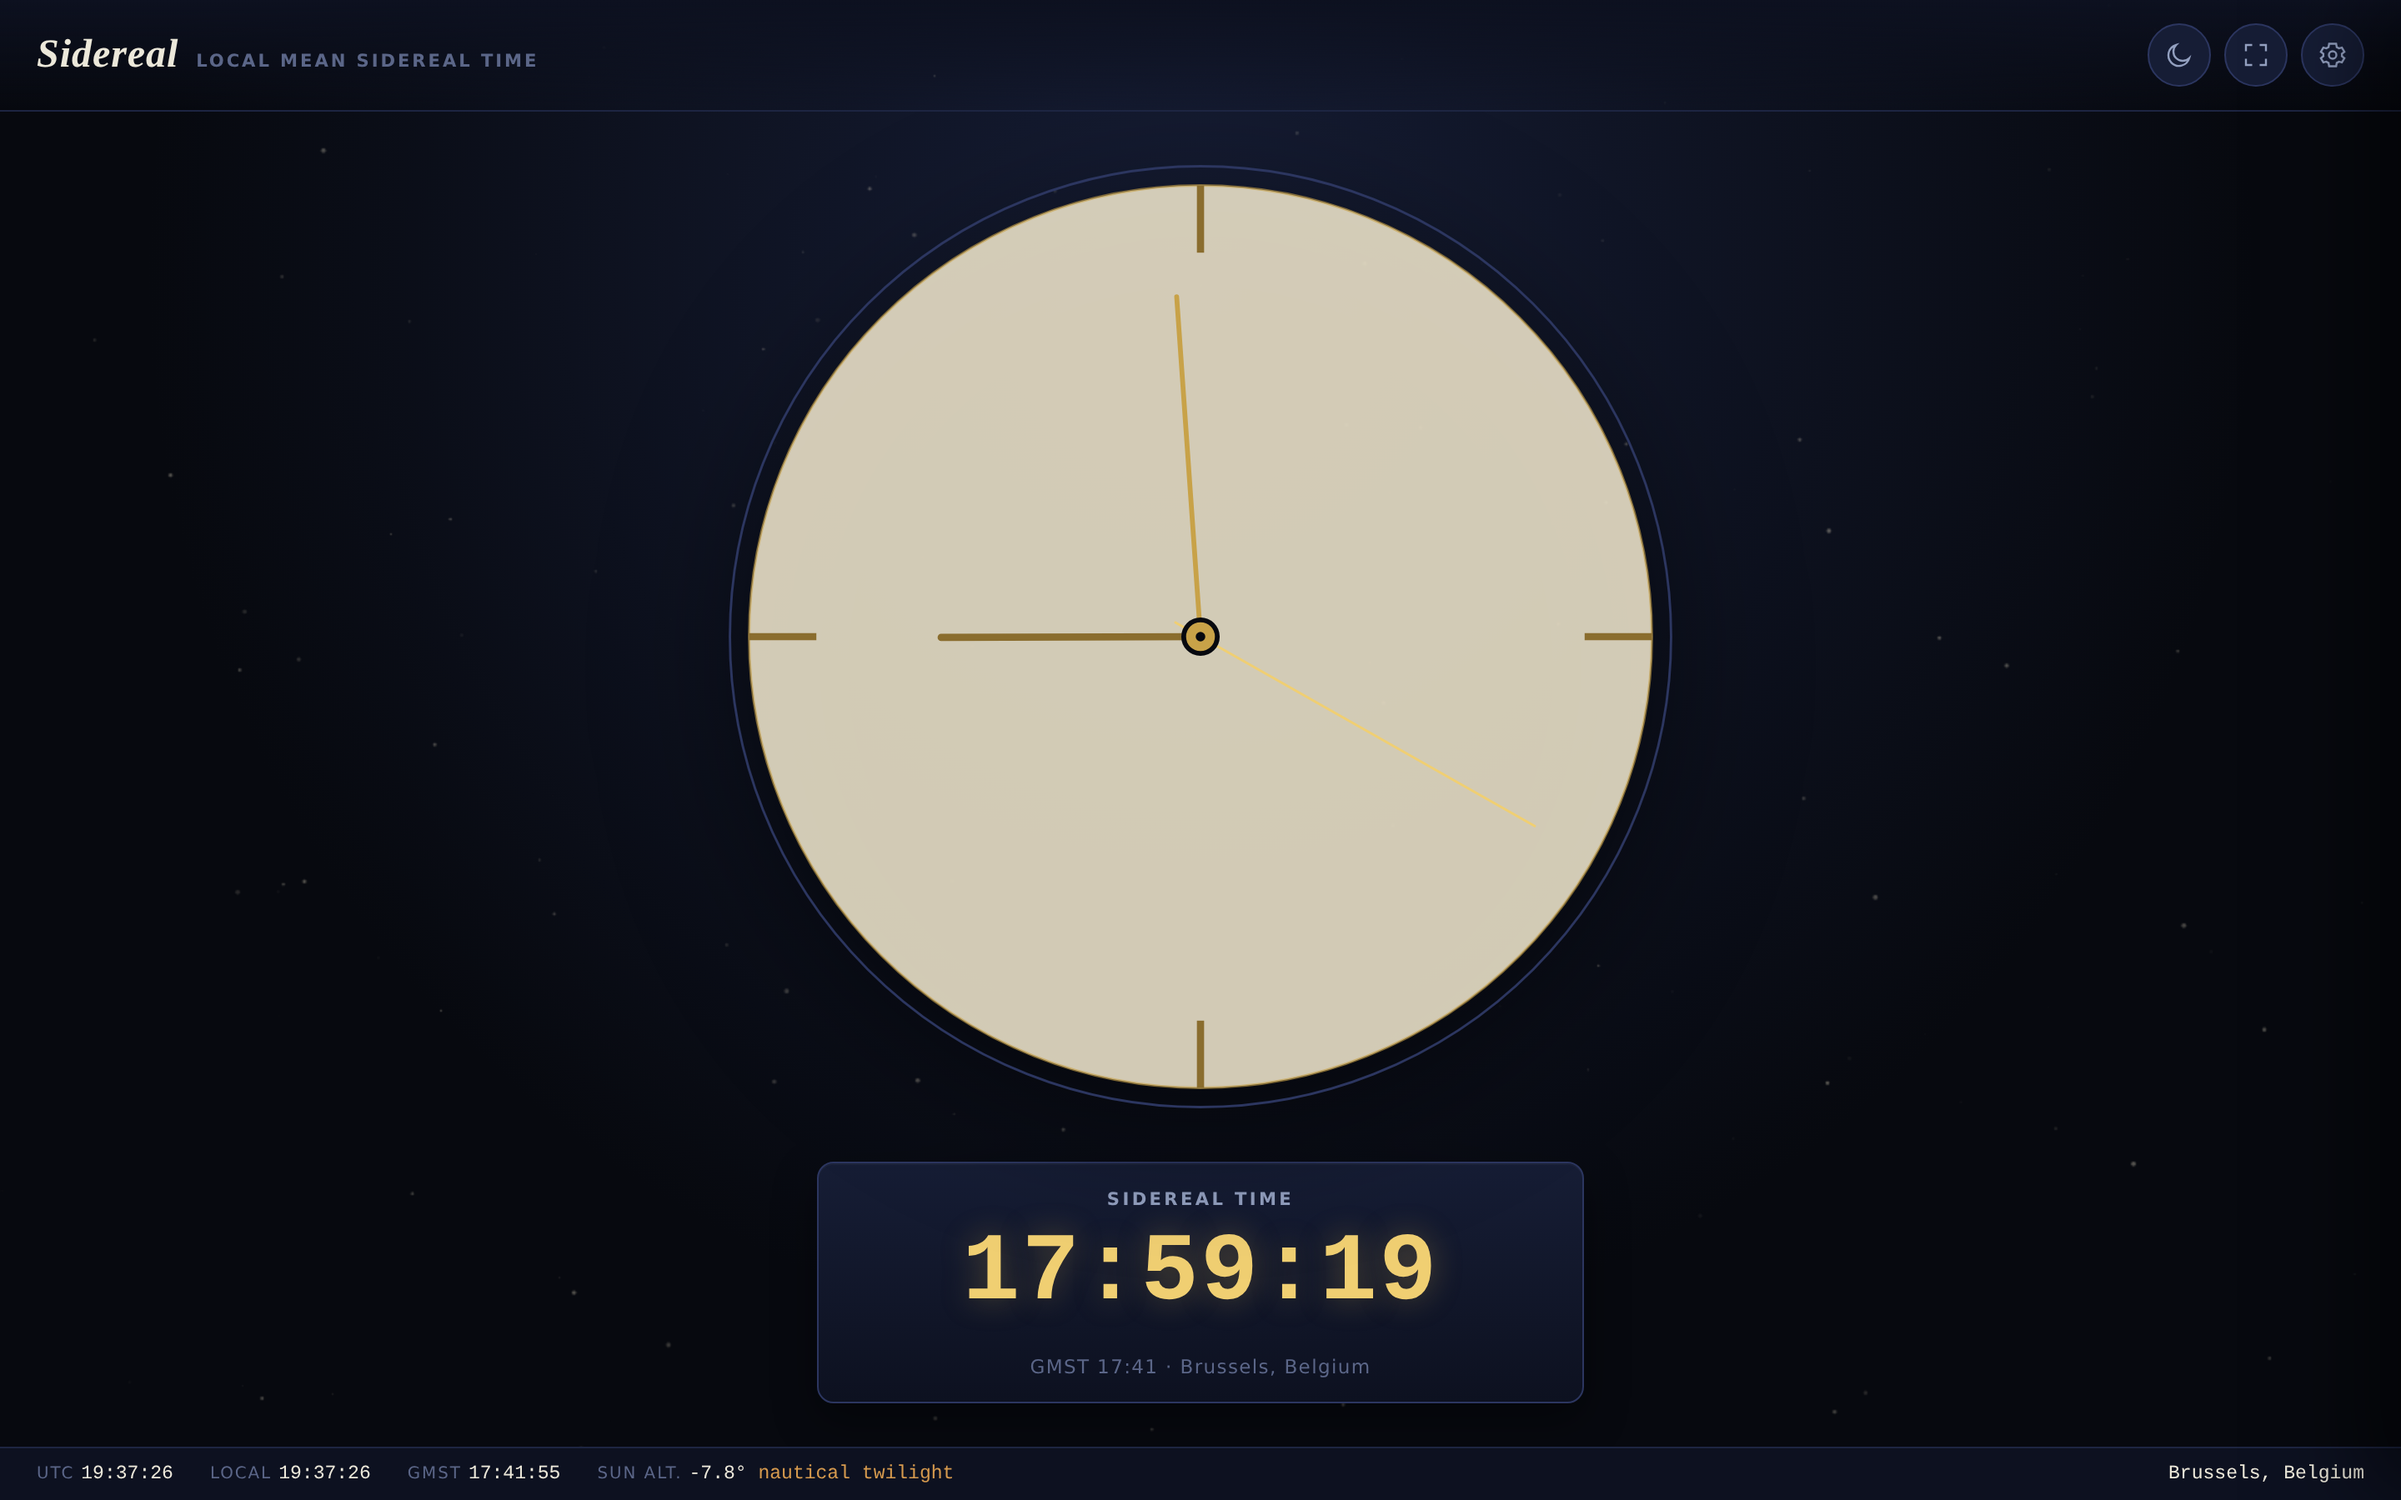
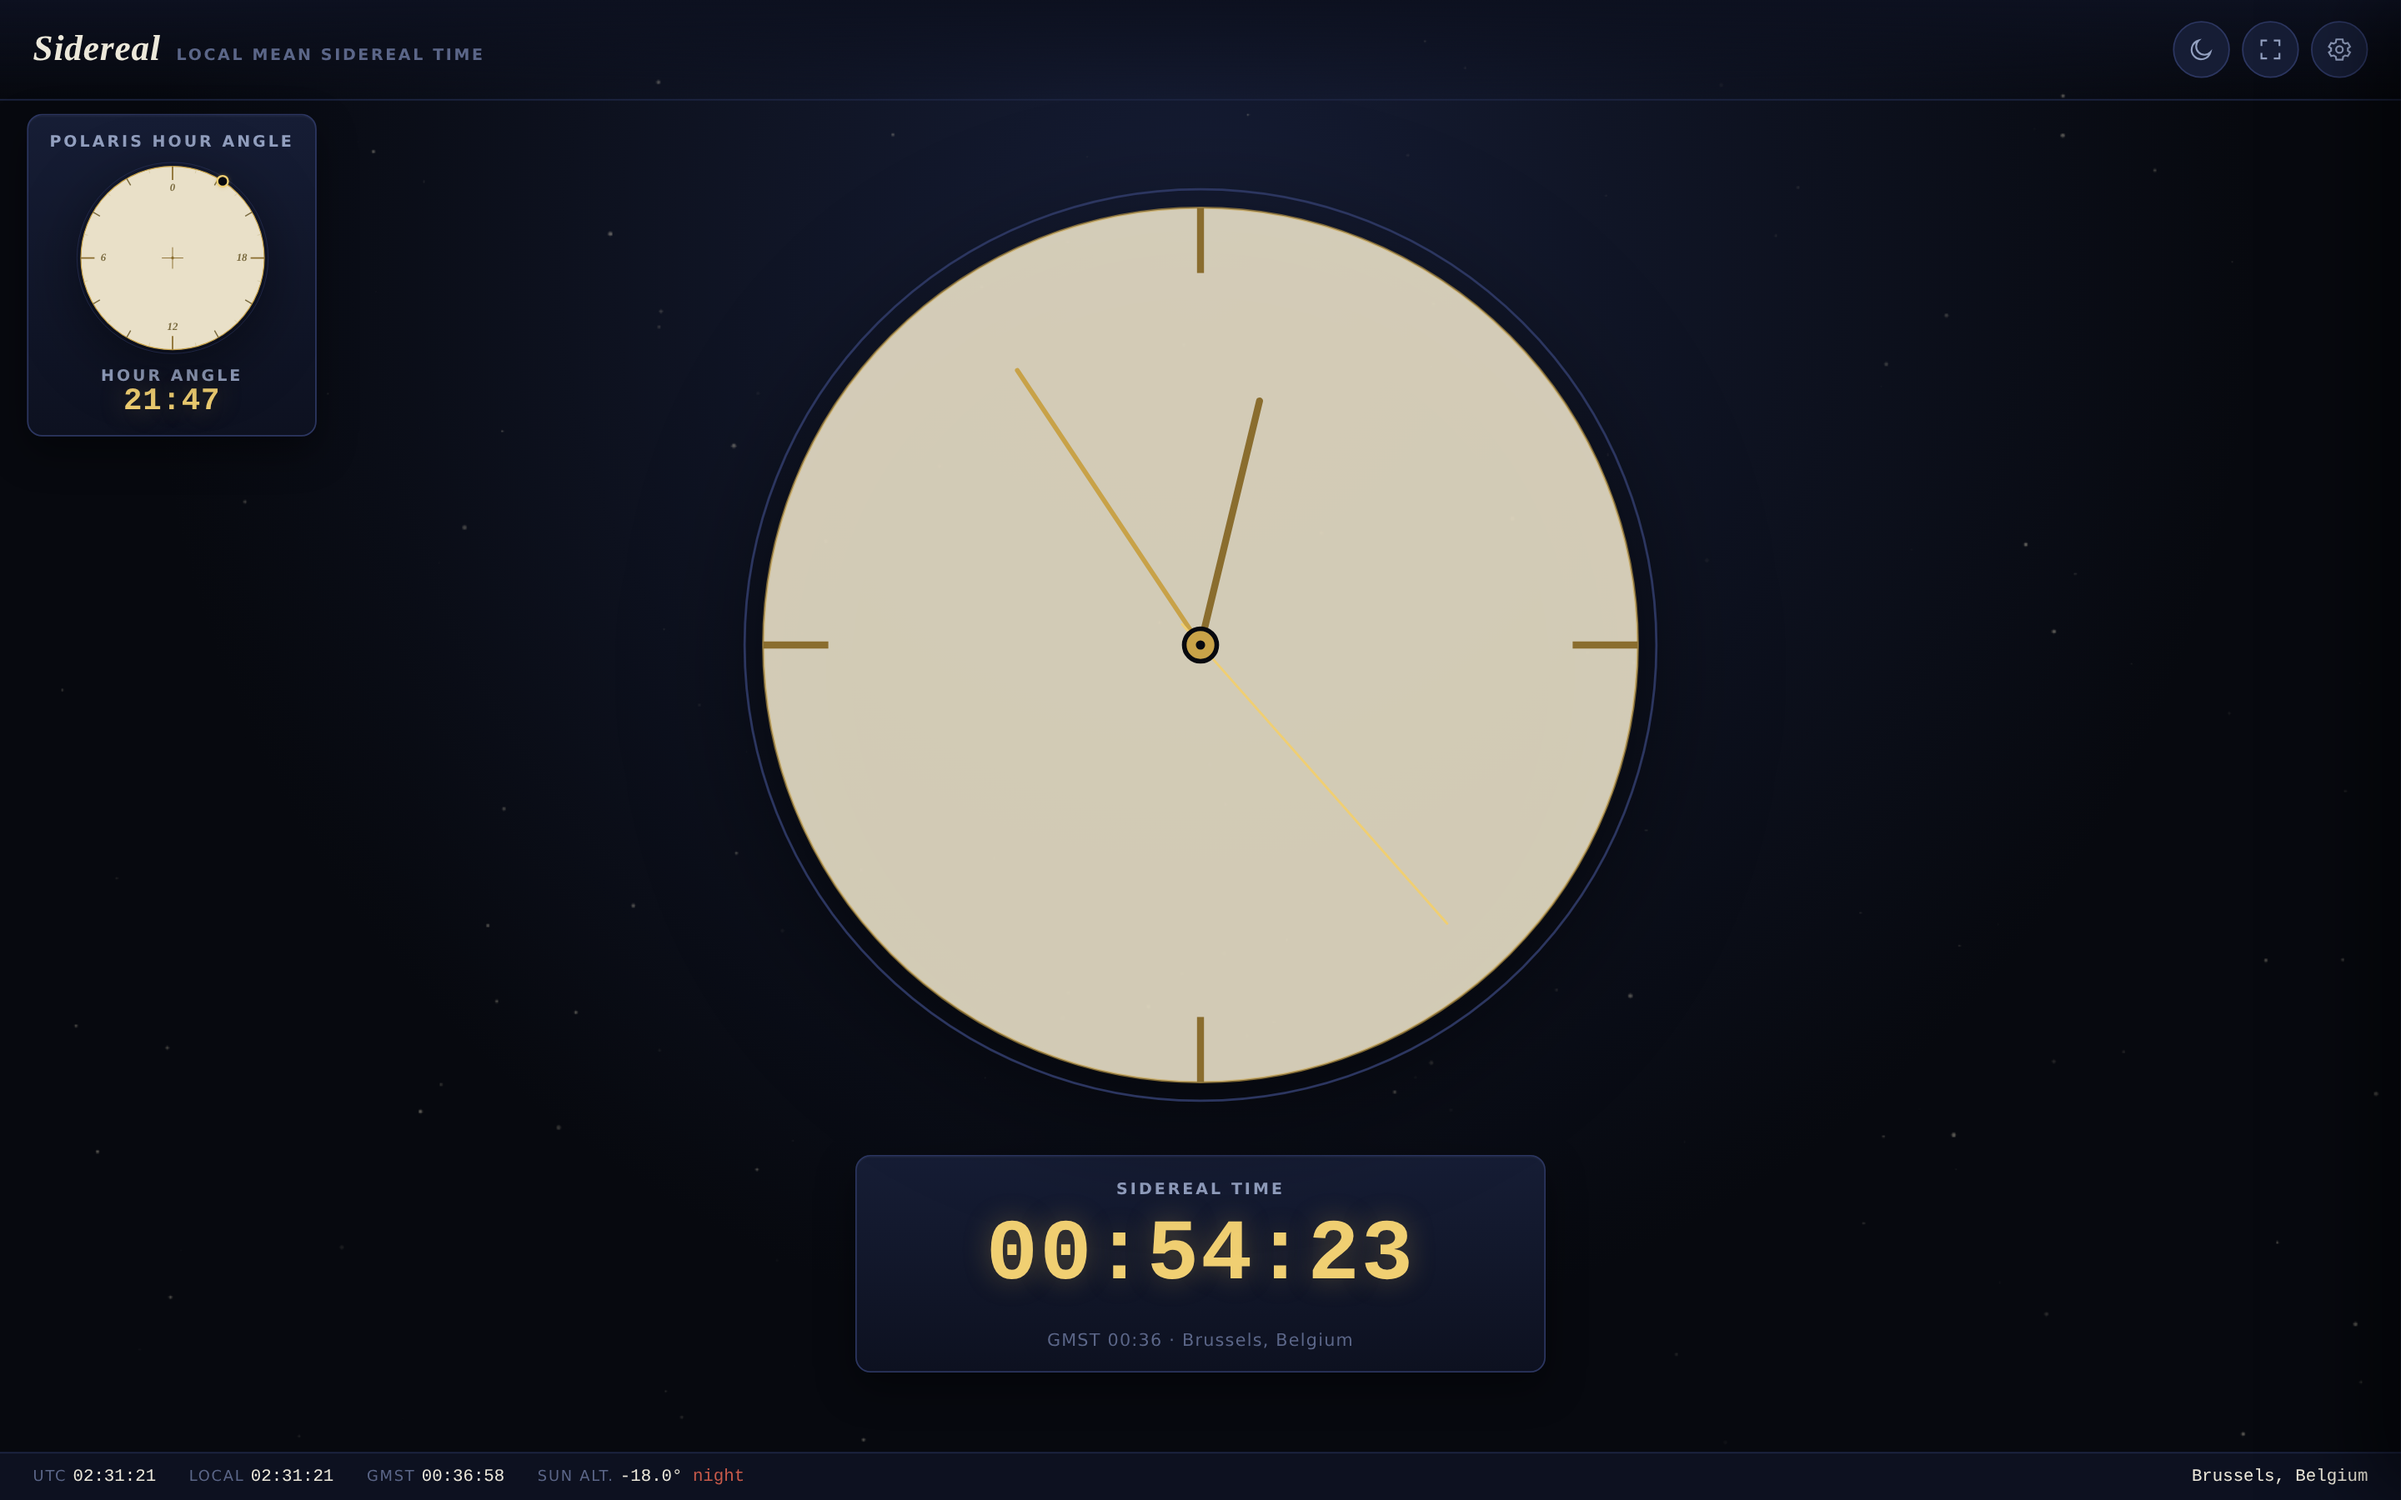
Update Readme, screenshots

diff --git a/README.md b/README.md
@@ -22,8 +22,10 @@ This clock computes **Local Mean Sidereal Time (LMST)** from your longitude and 
 ## Features
 
 - **Analog display** — a minimalist continuous-sweep dial by default (no ticking), plus Classic, Observatory, and Skeleton styles. The dial face itself can be set to a 24-hour layout (once around per sidereal day) or a familiar 12-hour layout (twice around).
+- **One or two dials** — show a single dial (sidereal or local), or both side by side, sharing the same style and 12/24-hour face.
 - **Digital display** — always shown in 24-hour form for sidereal time (that's the convention astronomers expect); local civil time can be shown alongside it in 12- or 24-hour form, with or without seconds, in either "Mechanical" (monospace) or "Engraved" (serif) numerals.
-- **Flexible layout** — analog only, digital only, or both together, and the digital readout can show sidereal time, local time, or both stacked.
+- **Flexible layout** — analog only, digital only, or both together; the digital block can sit beneath, left, or right of the dial(s), and its readout can show sidereal time, local time, or both stacked.
+- **Polaris hour-angle dial** — a small instrument-panel inset showing where Polaris currently sits around the North Celestial Pole, for aligning a polar scope. A brass circle rides the rim and turns counter-clockwise as hour angle advances, matching the star's apparent motion through a polar scope; a fixed crosshair marks the pole itself. The 0/24 mark can be set to the top or the bottom (a 180° flip, to match different reticle conventions), and the graphical dial and the HH:MM hour-angle readout can each be shown or hidden independently. Polaris's position is precession-corrected (rigorous Meeus/IAU-1976 formulas from its J2000 coordinates), not just approximated.
 - **Location** — set latitude/longitude and a location name by hand, or use the browser's geolocation. Latitude feeds an approximate sun-altitude/twilight indicator in the footer (day / civil / nautical / astronomical twilight / night).
 - **Time zone** — any IANA time zone, used to interpret local time display and any custom date/time you set.
 - **Clock source** — the live system clock, or a custom start date/time that keeps flowing forward from that point (with play/pause), for previewing sidereal time at another moment.
@@ -46,16 +48,18 @@ The page ships a web manifest and the right meta tags to be installed as a stand
 
 ## Settings reference
 
-Open the gear icon (top right) for three tabs:
+Open the gear icon (top right) for four tabs:
 
-- **Display** — layout, analog style, analog dial hours, what the digital readout shows, local time format, digital numeral style, night mode (manual and automatic).
+- **Display** — layout, digital position, how many dials to show and what they display, analog style, analog dial hours, what the digital readout shows, local time format, digital numeral style, night mode (manual and automatic).
 - **Location** — location name, latitude/longitude, geolocation button, time zone.
 - **Time & Sync** — clock source (live vs. custom), the manual sync correction, and the NTP server reference list.
+- **Polaris** — show or hide the position dial and the hour-angle readout independently, and set whether 0/24 is at the top or bottom of the dial.
 
 ## Accuracy notes
 
 - Sidereal time is computed as **mean** sidereal time (no nutation/equation-of-equinoxes correction), which differs from apparent sidereal time by at most about a second — plenty accurate for a wall clock.
 - The sun's position uses a low-precision approximation (accurate to roughly 0.01°), used only to drive the twilight label and optional auto night mode — not for anything requiring arcsecond precision.
+- Polaris's position is precessed from its J2000 coordinates using the rigorous Meeus/IAU-1976 formulas (no proper motion correction, which is negligible at this precision) — checked against Astropy to within about 0.1 arcsecond.
 
 ## License
 
